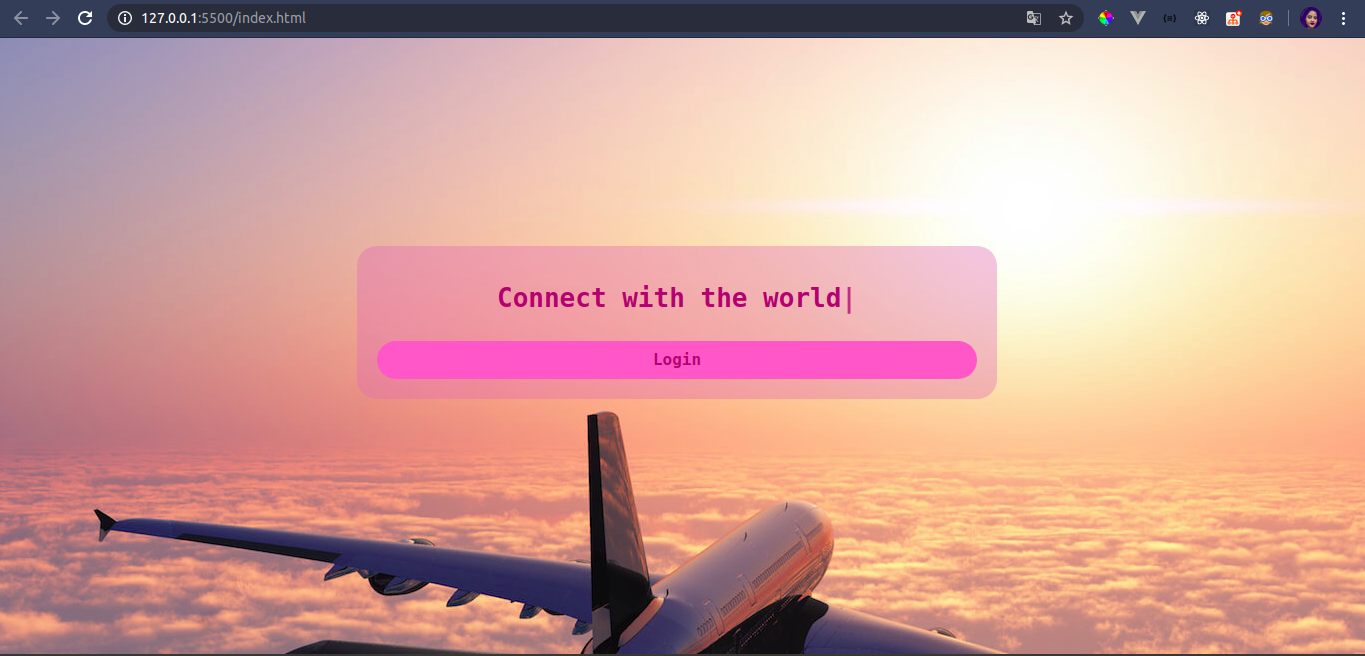
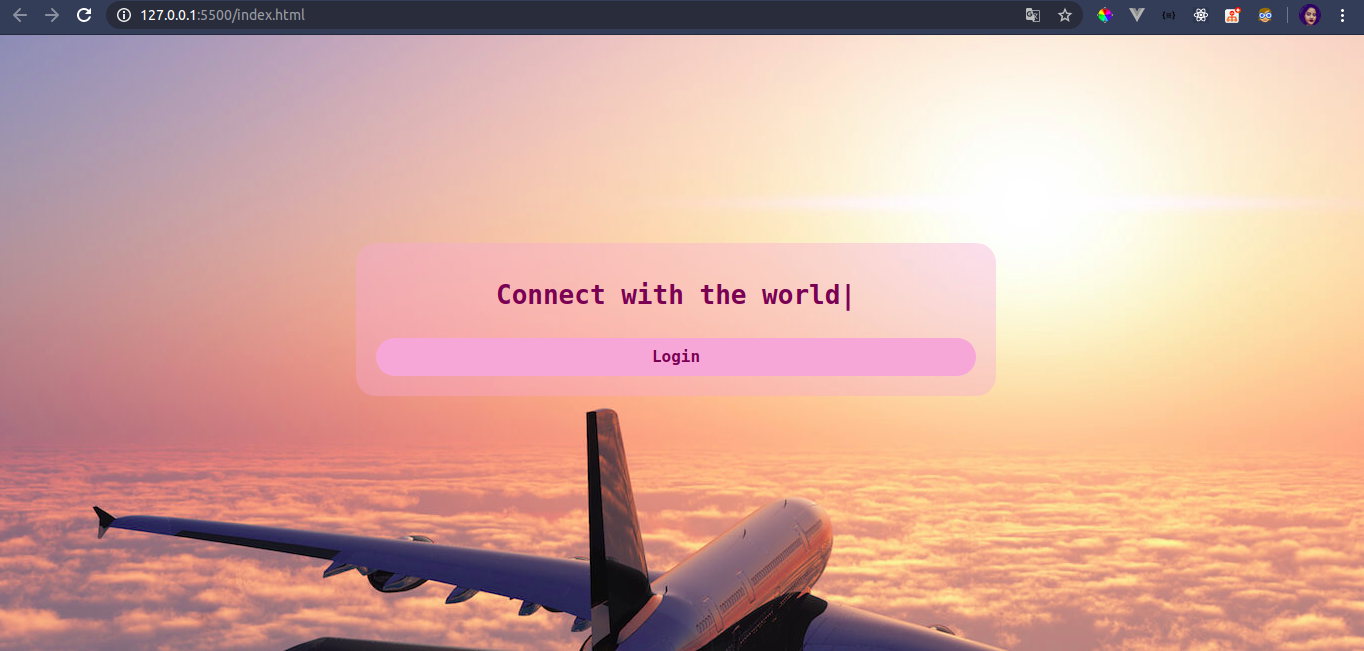
.

diff --git a/index.html b/index.html
@@ -102,14 +102,14 @@
         font-size: 24px;
       }
       .button-personalized {
-        background-color: #f884cb;
-        color: #ad1975;
+        background-color: #f1b6d9;
+        color: #752456;
         font-size: 16px;
         font-weight: bold;
         border-radius: 50px;
       }
       .button-personalized:hover {
-        background-color: #db84b8;
+        background-color: #d094e2;
         border-radius: 50px;
       }
       .opening {
@@ -118,7 +118,7 @@
         align-items: center;
         min-width: 600px;
         padding: 20px;
-        background-color: #db84b862;
+        background-color: #f1b6d960;
         border-radius: 20px;
         top: 200px;
         left: 350px;
@@ -132,7 +132,7 @@
         background-size: cover; */
       }
       .title {
-        color: #ad1975;
+        color: #752456;
         z-index: 1;
       }
       .title::after {
